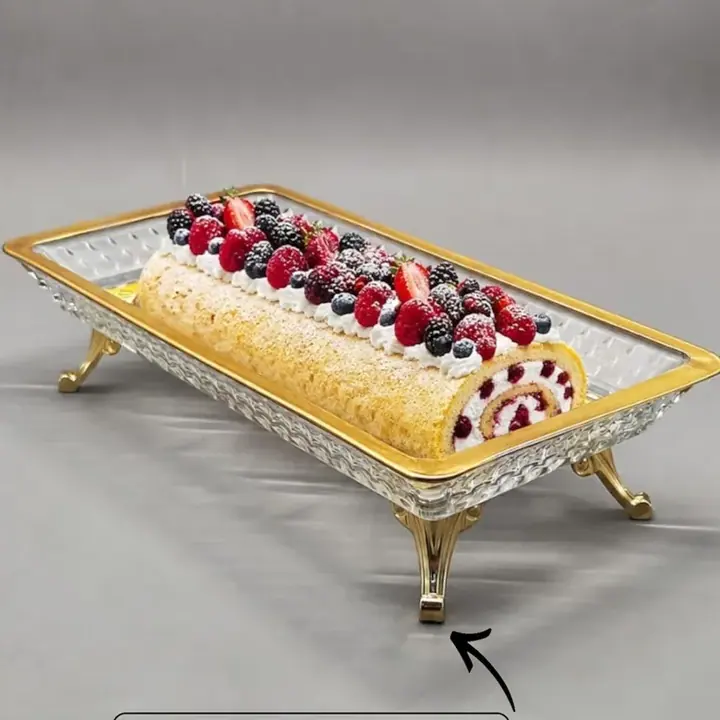
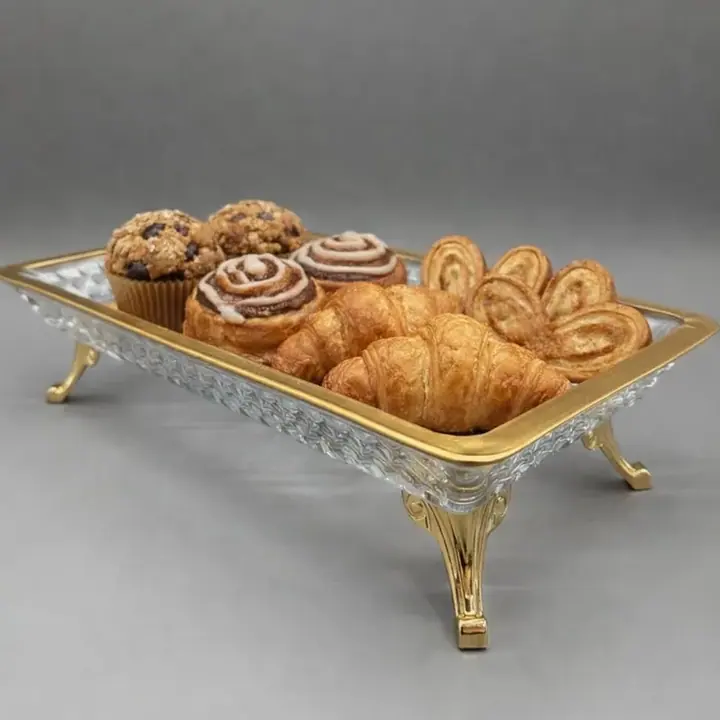
Правки после проверки: обложки, мобильная вёрстка, цифры, галерея, сообщение в WhatsApp

diff --git a/src/app/b/_components/header.tsx b/src/app/b/_components/header.tsx
@@ -69,14 +69,14 @@ export function StoreHeader() {
           <span className="hidden text-xs text-muted-foreground lg:inline">посуда для праздничного стола</span>
         </Link>
 
-        <nav className="ml-6 hidden items-center gap-5 text-sm md:flex" aria-label="Основное меню">
+        <nav className="ml-6 hidden items-center gap-5 text-sm whitespace-nowrap md:flex" aria-label="Основное меню">
           <Link href="/b/catalog/" className="hover:text-primary">Каталог</Link>
-          <Link href="/b/catalog/?cat=stands" className="hover:text-primary">Блюда на ножке</Link>
+          <Link href="/b/catalog/?cat=stands" className="hidden hover:text-primary lg:inline">Блюда на ножке</Link>
           <Link href="/b/catalog/?cat=roll" className="hover:text-primary">Рулетницы</Link>
           <Link href="/b/#delivery" className="hover:text-primary">Доставка</Link>
         </nav>
 
-        <form onSubmit={search} className="relative ml-auto hidden w-64 md:block" role="search">
+        <form onSubmit={search} className="relative ml-auto hidden w-52 md:block lg:w-64" role="search">
           <Search className="pointer-events-none absolute left-2.5 top-1/2 size-4 -translate-y-1/2 text-muted-foreground" aria-hidden />
           <Input
             value={q}

diff --git a/src/components/shared/gallery.tsx b/src/components/shared/gallery.tsx
@@ -9,7 +9,7 @@ export function Gallery({ id, count, name }: { id: string; count: number; name: 
   const shots = Array.from({ length: count }, (_, i) => i + 1)
 
   return (
-    <div className="flex flex-col gap-3 md:flex-row-reverse">
+    <div className="flex flex-col gap-3 self-start md:flex-row-reverse md:items-start">
       <div className="relative flex-1 overflow-hidden rounded-lg bg-well">
         {/* eslint-disable-next-line @next/next/no-img-element */}
         <img
@@ -35,7 +35,7 @@ export function Gallery({ id, count, name }: { id: string; count: number; name: 
             )}
           >
             {/* eslint-disable-next-line @next/next/no-img-element */}
-            <img src={asset(photo(id, n))} alt="" loading="lazy" width={120} height={160} className="aspect-[3/4] w-full object-cover" />
+            <img src={asset(photo(id, n))} alt="" width={120} height={160} className="aspect-[3/4] w-full object-cover" />
           </button>
         ))}
       </div>

diff --git a/src/components/shared/size-compare.tsx b/src/components/shared/size-compare.tsx
@@ -22,7 +22,7 @@ export function SizeCompare({ product }: { product: Product }) {
   const itemW = width * CM
   const itemH = height * CM
   const drawH = Math.max(phoneH, itemH)
-  const vbW = pad + phoneW + gap + itemW + pad + 24
+  const vbW = pad + phoneW + gap + itemW + pad + 44
   const vbH = drawH + pad + 44
   const ground = pad + drawH
 
@@ -71,7 +71,7 @@ export function SizeCompare({ product }: { product: Product }) {
               y={ground - itemH / 2 + 4}
               className="fill-foreground text-[12px] font-medium"
             >
-              {fmt(height)}
+              {fmt(height)} см
             </text>
           </>
         )}

diff --git a/src/app/c/page.tsx b/src/app/c/page.tsx
@@ -150,11 +150,11 @@ export default function BoutiqueHome() {
             </p>
             {/* eslint-disable-next-line @next/next/no-img-element */}
             <img
-              src={asset(photo("787375072", 4))}
-              alt="Блюдца в подарочной коробке"
+              src={asset(photo("778118975", "cover"))}
+              alt="Конфетница на литой ножке с конфетами"
               loading="lazy"
               width={720}
-              height={960}
+              height={720}
               className="aspect-[4/3] w-full rounded-lg bg-well object-cover"
             />
           </div>

diff --git a/src/app/c/_components/order-sheet.tsx b/src/app/c/_components/order-sheet.tsx
@@ -11,7 +11,9 @@ export function orderMessage(lines: Line[], gift: Gift) {
   const rows = lines
     .map((l) => {
       const r = resolveLine(l.key)
-      return r ? `• ${r.title} × ${l.qty} — ${rub(r.unit * l.qty)}` : null
+      if (!r) return null
+      const detail = r.kind === "set" ? ` (${r.subtitle})` : ""
+      return `• ${r.title}${detail} × ${l.qty} — ${rub(r.unit * l.qty)}`
     })
     .filter(Boolean)
   const parts = ["Здравствуйте! Хочу заказать:", ...rows, `Итого: ${rub(linesTotal(lines))}`]

diff --git a/src/app/c/_components/catalog-tabs.tsx b/src/app/c/_components/catalog-tabs.tsx
@@ -36,7 +36,7 @@ export function CatalogTabs() {
                     <span className="text-xs text-muted-foreground">{p.sizeLabel}</span>
                     <span className="mt-auto pt-1 text-lg font-semibold tabular">{rub(p.price)}</span>
                   </div>
-                  <OrderButtons id={p.id} name={p.name} />
+                  <OrderButtons id={p.id} name={p.name} className="flex-col lg:flex-row" />
                 </article>
               ))}
           </div>

diff --git a/src/app/globals.css b/src/app/globals.css
@@ -96,9 +96,11 @@
   .font-display {
     font-family: var(--font-display);
     letter-spacing: -0.01em;
+    /* Cormorant defaults to old-style figures: «30» reads like «зо» next to Cyrillic. */
+    font-variant-numeric: lining-nums;
   }
   .tabular {
-    font-variant-numeric: tabular-nums;
+    font-variant-numeric: tabular-nums lining-nums;
   }
   .wrap {
     width: 100%;
